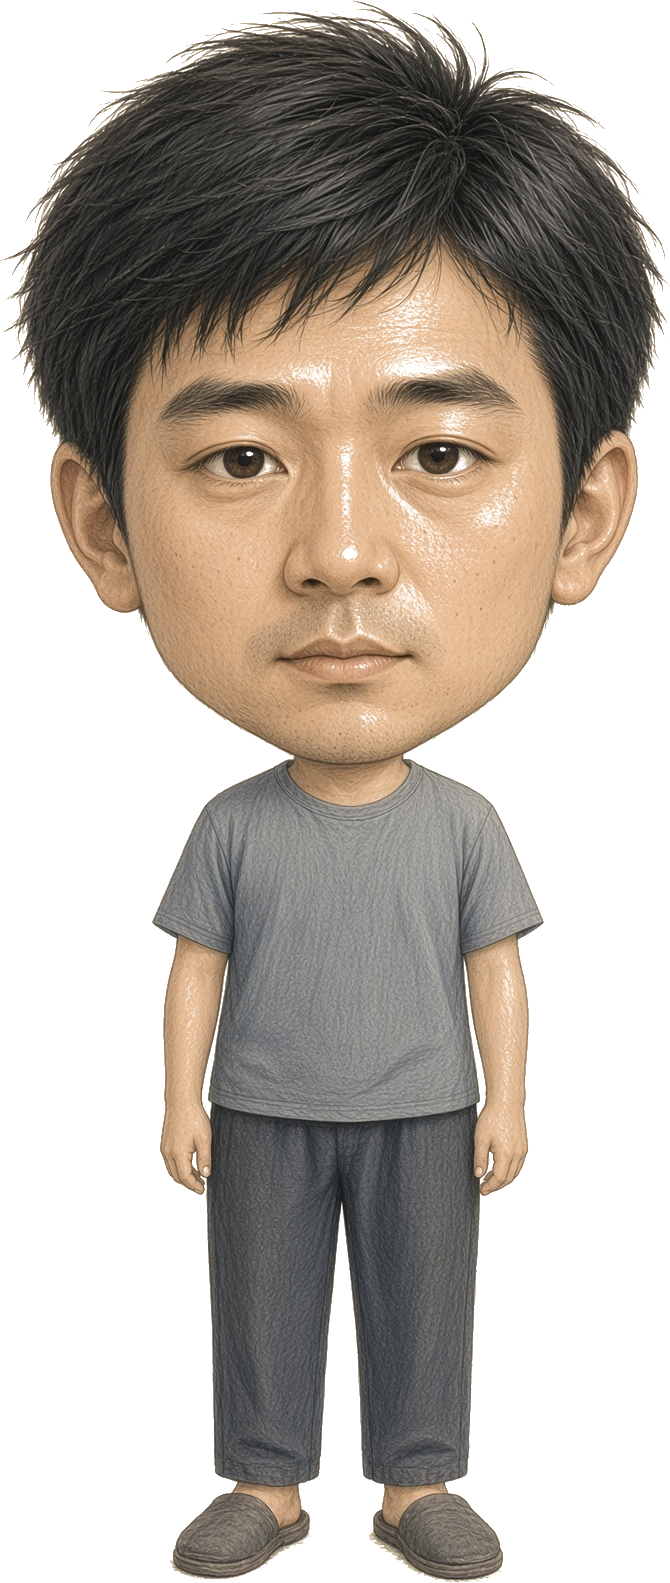
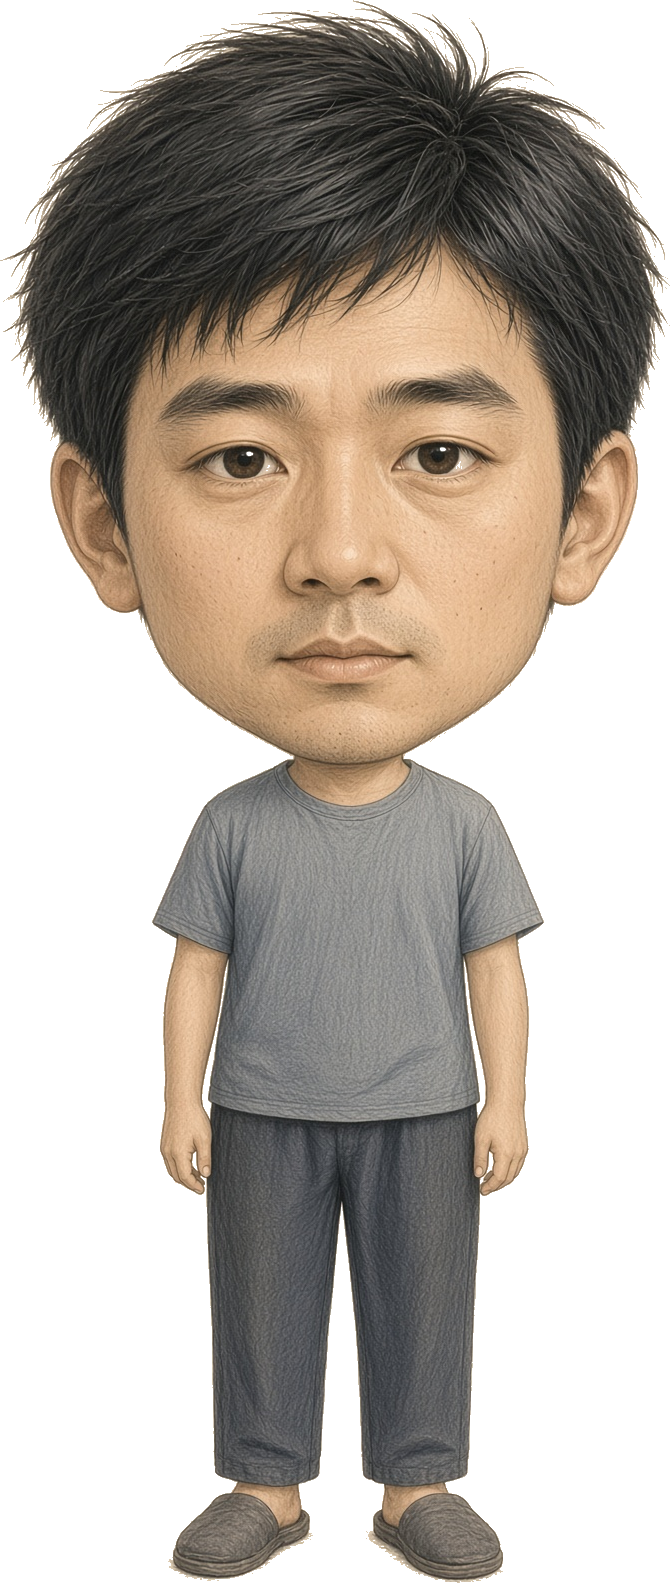
Fix see-through faces and sit the family at home.
Home and the desk use a sitting pose. Streets and the playground stay standing.

diff --git a/src/components/life/LifeApp.tsx b/src/components/life/LifeApp.tsx
@@ -16,7 +16,7 @@ import {
   yearLean,
   yearOf,
 } from "@/game/content";
-import { MEMORY_BALL, personFromName, personName, personSrc, roomOf, slicePlate, spokenLine, type Mood, type PersonId } from "@/game/art";
+import { MEMORY_BALL, personFromName, personName, personSrc, roomOf, slicePlate, spokenLine, type Mood, type PersonId, type Pose } from "@/game/art";
 import { chainEcho, missed1986, missedLine } from "@/game/freedom";
 import { beat1985, isBeat } from "@/game/story";
 import { battleNarrative } from "@/game/battleNarrative";
@@ -226,7 +226,7 @@ function YearOpen({ state, onNext, onRestart }: { state: State; onNext: () => vo
   const year = yearOf(state);
   const plate = slicePlate({ year: year.year, scene: year.scene, gender: state.gender });
   return (
-    <Paper scene={year.scene} plate={plate} kicker={String(year.year)} title={year.title}>
+    <Paper scene={year.scene} plate={plate} kicker={String(year.year)} title={year.title} cast={year.scene === "home" ? { present: ["dad", "mom", "child"], speaker: "child", line: "" } : null}>
       <p className="text-pretty text-base leading-7">{year.era}</p>
       <p className="mt-3 text-pretty text-base leading-7">{year.open}</p>
       {state.name ? <p className="mt-3 text-pretty text-base leading-7">別人叫你{state.name}。</p> : null}
@@ -491,7 +491,8 @@ function Paper({ scene, plate, kicker, title, cast, mood = "idle", dialogue, chi
   const present = cast?.present ?? (gender ? (["child"] as PersonId[]) : []);
   const speaker = cast?.speaker ?? (gender ? "child" : null);
   const line = cast?.line || SENSE[scene];
-  const face = (id: PersonId) => personSrc(id, gender, id === "child" ? mood : "idle");
+  const pose: Pose = scene === "home" || scene === "study" ? "sit" : "stand";
+  const face = (id: PersonId) => personSrc(id, gender, id === "child" ? mood : "idle", pose);
   const lines = dialogue?.length ? dialogue : [line];
   return (
     <section className="flex h-full min-h-0 flex-col overflow-hidden rounded-md border-4 border-[#6e4524] bg-[#f4efe4] shadow-[inset_0_0_0_2px_#e8d7a8]">

diff --git a/src/components/life/Battle.tsx b/src/components/life/Battle.tsx
@@ -86,11 +86,11 @@ export function Battle({ spec, approach, hp, sp, skills, techniques, mind, gearS
       <div className="relative h-[34%] min-h-36 shrink-0">
         <img src={src} alt="" className="absolute inset-0 h-full w-full object-cover" />
         <div className="pointer-events-none absolute inset-0 bg-gradient-to-t from-[#1c140c]/40 to-transparent" />
-        <img src={personSrc("child", gender, sim.over ? "idle" : "think")} alt="" className="pointer-events-none absolute inset-x-0 bottom-0 top-1 mx-auto h-full w-auto max-w-[42%] object-contain object-bottom drop-shadow-[0_6px_6px_rgba(0,0,0,0.35)]" />
+        <img src={personSrc("child", gender, sim.over ? "idle" : "think", spec.scene === "study" || spec.scene === "home" ? "sit" : "stand")} alt="" className="pointer-events-none absolute inset-x-0 bottom-0 top-1 mx-auto h-full w-auto max-w-[42%] object-contain object-bottom drop-shadow-[0_6px_6px_rgba(0,0,0,0.35)]" />
       </div>
       <div className="shrink-0 border-b-2 border-[#8a6232] bg-[#fffaf0] px-3 py-2 text-ink">
         <div className="mb-1 flex items-center gap-2">
-          <img src={personSrc("child", gender, sim.over ? "idle" : "think")} alt="" className="h-8 w-8 rounded-full border border-[#c4a574] object-cover object-[center_18%]" />
+          <img src={personSrc("child", gender, sim.over ? "idle" : "think", spec.scene === "study" || spec.scene === "home" ? "sit" : "stand")} alt="" className="h-8 w-8 rounded-full border border-[#c4a574] object-cover object-[center_18%]" />
           <p className="font-serif text-sm tracking-wide text-[#6e4524]">{spec.label}</p>
         </div>
         <p className="text-pretty text-base leading-7">{bonusOnly ? "還可以再走一步，或停一停。" : sim.over ? (entered ? spec.voice.entered : spec.voice.back) : sim.hasActed ? sim.hint : sim.threat.hint}</p>

diff --git a/src/game/art.ts b/src/game/art.ts
@@ -22,12 +22,21 @@ const FILE: Record<Exclude<PersonId, "child">, string> = {
 };
 
 export type Mood = "idle" | "think";
+export type Pose = "stand" | "sit";
 
-export function personSrc(id: PersonId, gender: Gender | null, mood: Mood = "idle") {
+const SIT: Partial<Record<Exclude<PersonId, "child">, string>> = {
+  mom: "mom-sit",
+  dad: "dad-sit",
+  grandma: "grandma-sit",
+};
+
+export function personSrc(id: PersonId, gender: Gender | null, mood: Mood = "idle", pose: Pose = "stand") {
   if (id === "child") {
     const who = gender === "boy" ? "boy" : "girl";
+    if (pose === "sit") return `/art/1985/people/${who}-sit${mood === "think" ? "-think" : ""}.png`;
     return mood === "think" ? `/art/1985/people/${who}-think.png` : `/art/1985/people/${who}.png`;
   }
+  if (pose === "sit" && SIT[id]) return `/art/1985/people/${SIT[id]}.png`;
   return `/art/1985/people/${FILE[id]}.png`;
 }
 
